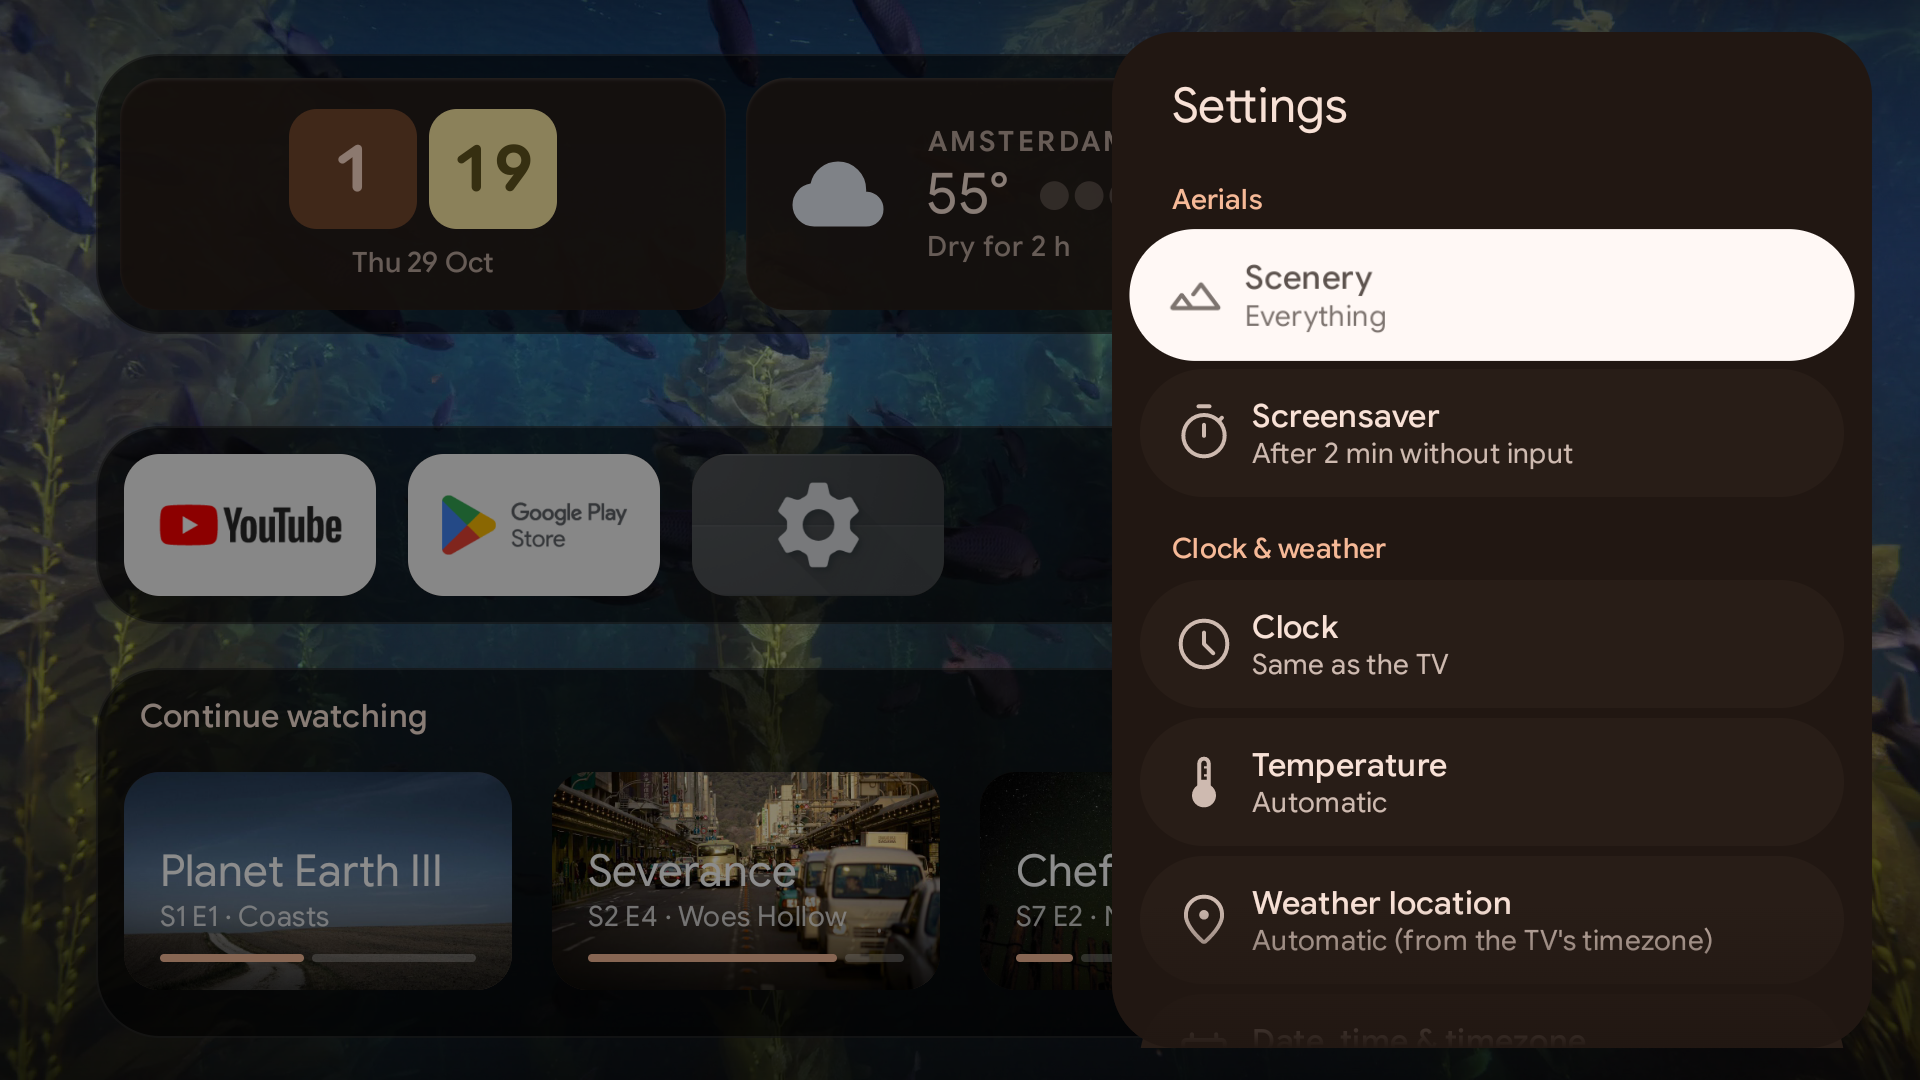
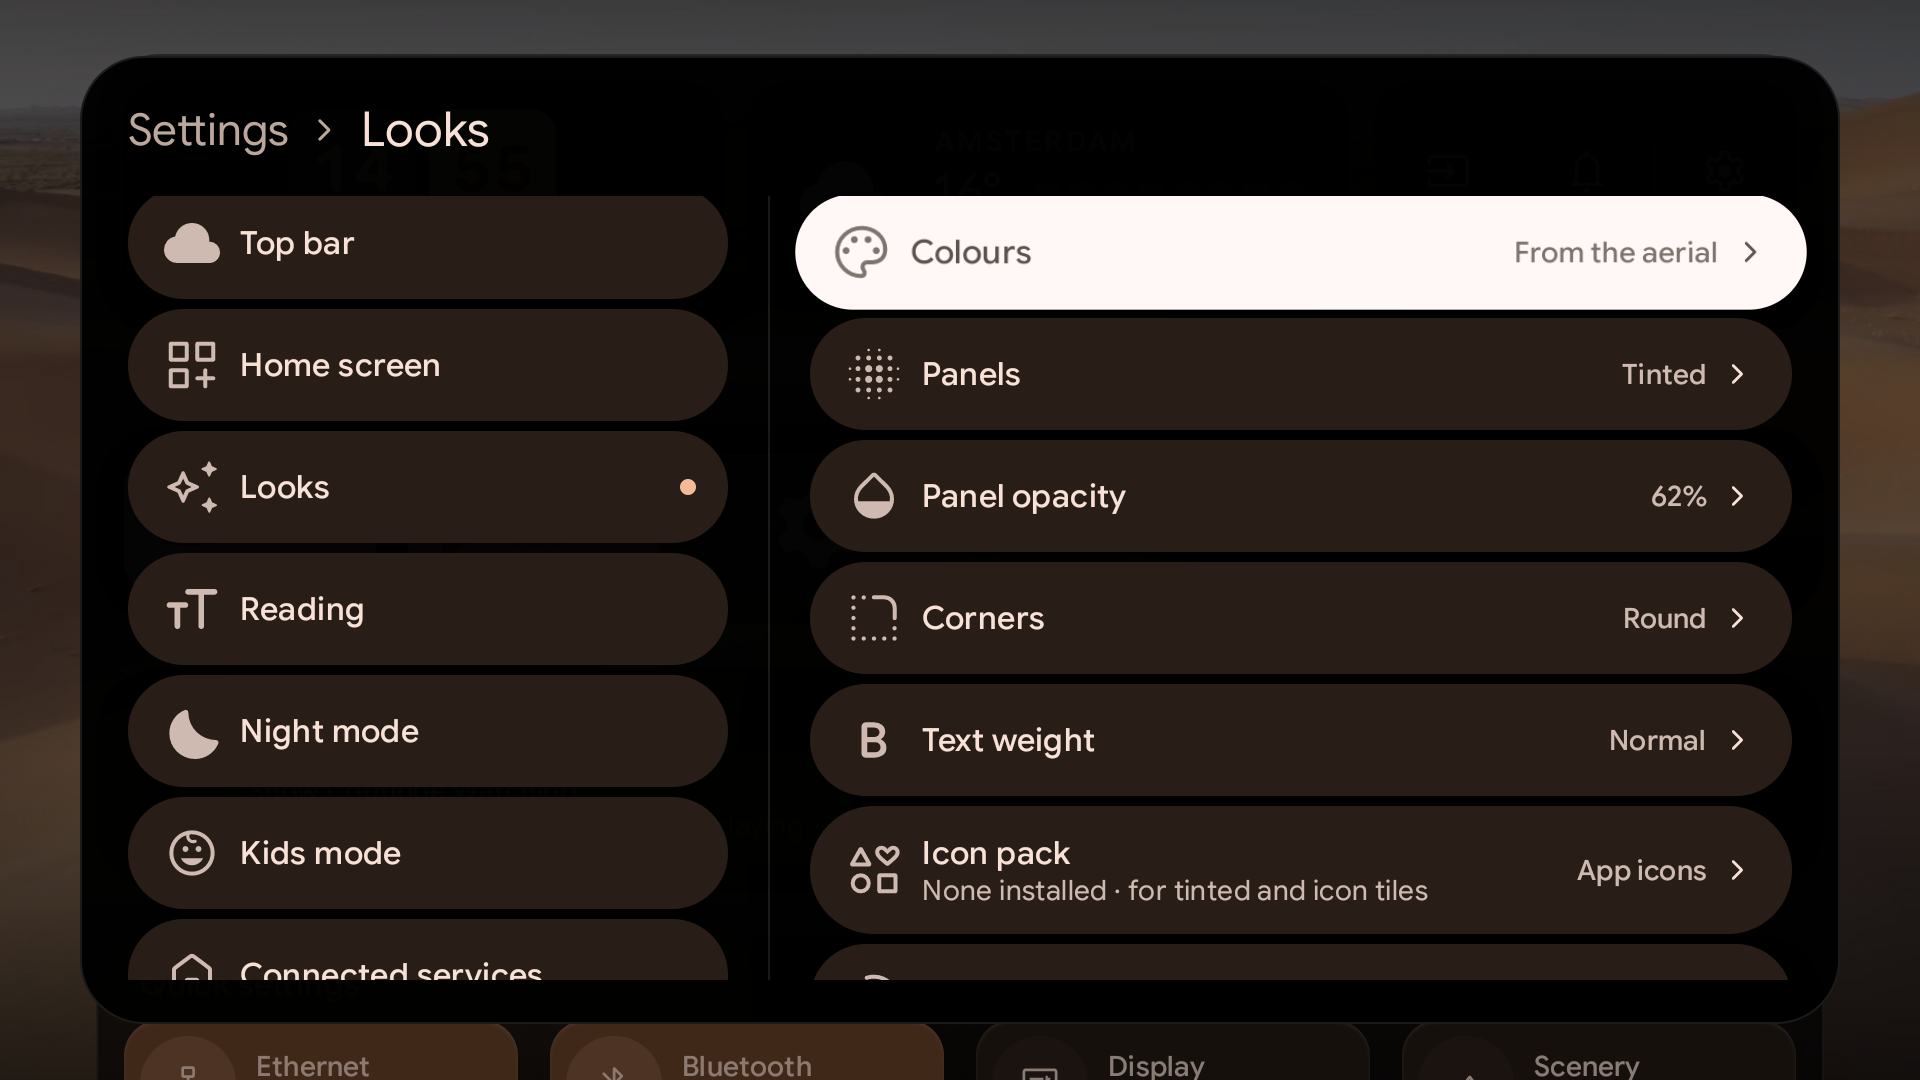
0.3.0: two-pane settings, setup wizard, seven languages and everything on the roadmap so far

diff --git a/README.md b/README.md
@@ -42,9 +42,11 @@ Clips stream when they're shown and nothing is downloaded ahead. The last one or
 
 ## Settings
 
-![Launcher settings panel](docs/screenshots/settings.png)
+![Aerial settings: categories on the left, the Looks settings on the right](docs/screenshots/settings.png)
 
-The settings panel opens from the gear in the top bar. It covers the scenery, how soon the screensaver starts, 12 or 24 hour time, Celsius or Fahrenheit, the weather location, tile style (app banners or tiles tinted to the aerial), and hidden apps. It also links to the Android TV settings for date, time and timezone.
+Settings open from the gear in the top bar. The categories are on the left and their settings on the right, with the path at the top, so you always know where you are. A choice lists all its options at once, and on/off settings have a switch.
+
+On first start a short setup asks about the Home button, the aerials, the clock and weather, and access. You can run it again from Settings › System. Everything Aerial added since 0.2 is off until you turn it on; [ROADMAP.md](ROADMAP.md) lists what's there and what's planned.
 
 Weather comes from Open-Meteo, which needs no account. Aerial guesses your city from the TV's timezone, and you can type a different one.
 
